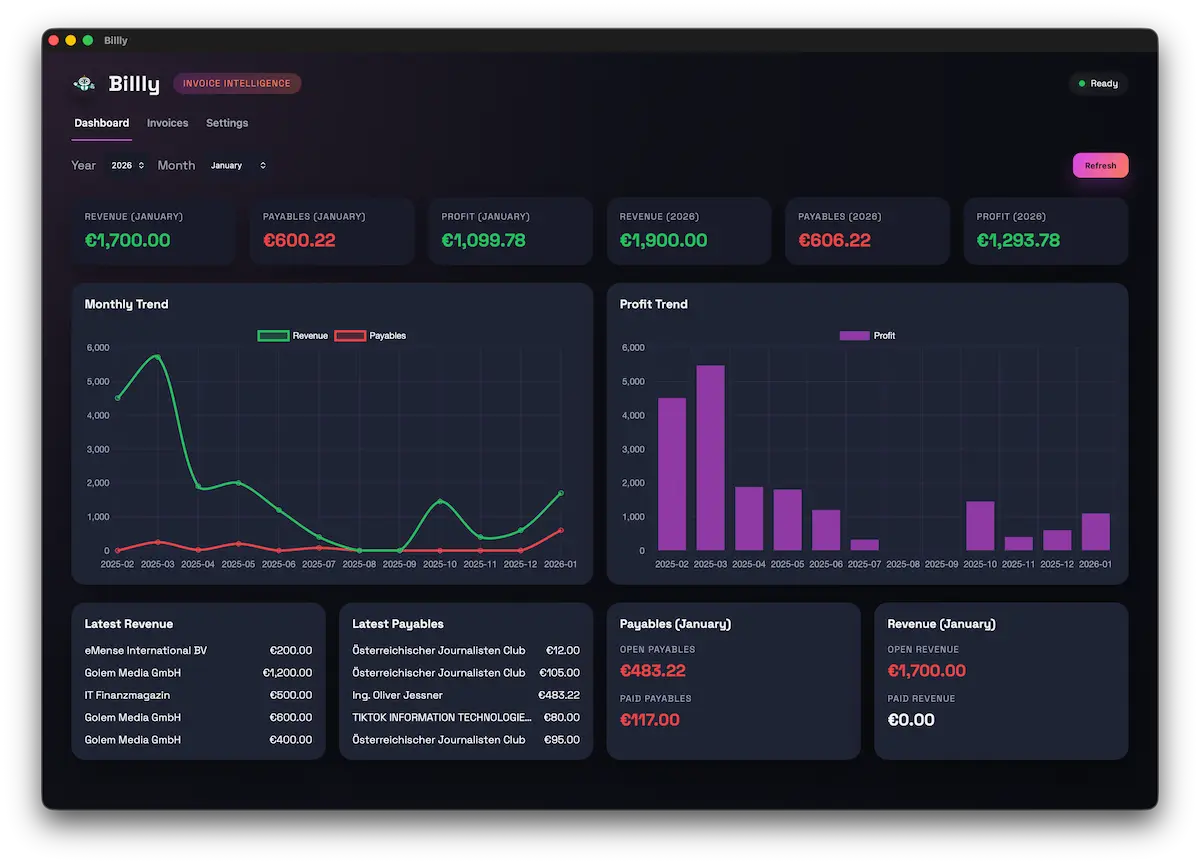
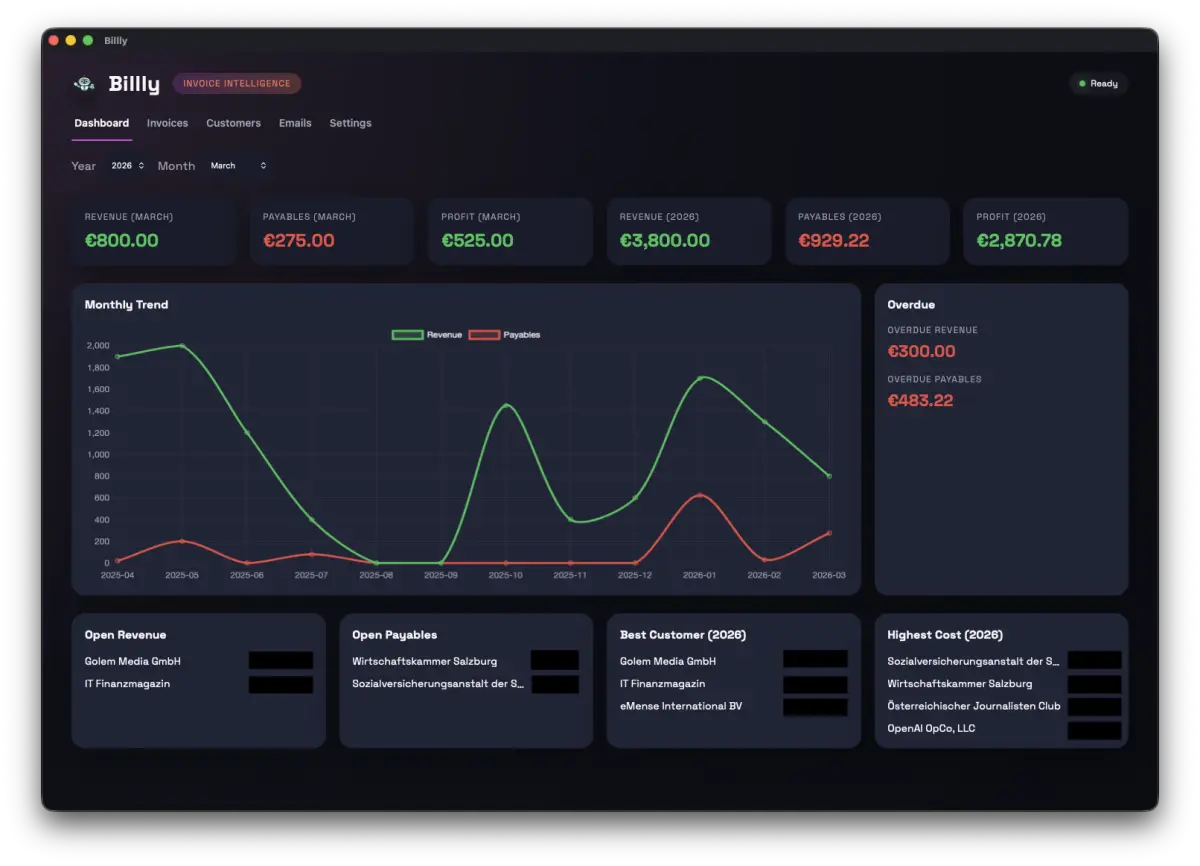
v0.3.0

diff --git a/changelog.md b/changelog.md
@@ -1,0 +1,11 @@
+# 0.3.0
+
+- sortable tables
+- adding sending emails, with templates
+
+# 0.2.0
+
+- click on paid add automatically the current date
+- better dashboard data, overdue stuff
+- automatic tagging system for payables/bills
+- automatic CRM

diff --git a/README.md b/README.md
@@ -2,4 +2,14 @@
 
 Bookkeeping that runs itself.
 
+Dashboard
 ![](/images/dashboard.webp)
+
+Invoices
+![](/images/invoices.webp)
+
+CRM
+![](/images/customers_crm.webp)
+
+E-Mails with templates
+![](/images/send_emails.webp)
